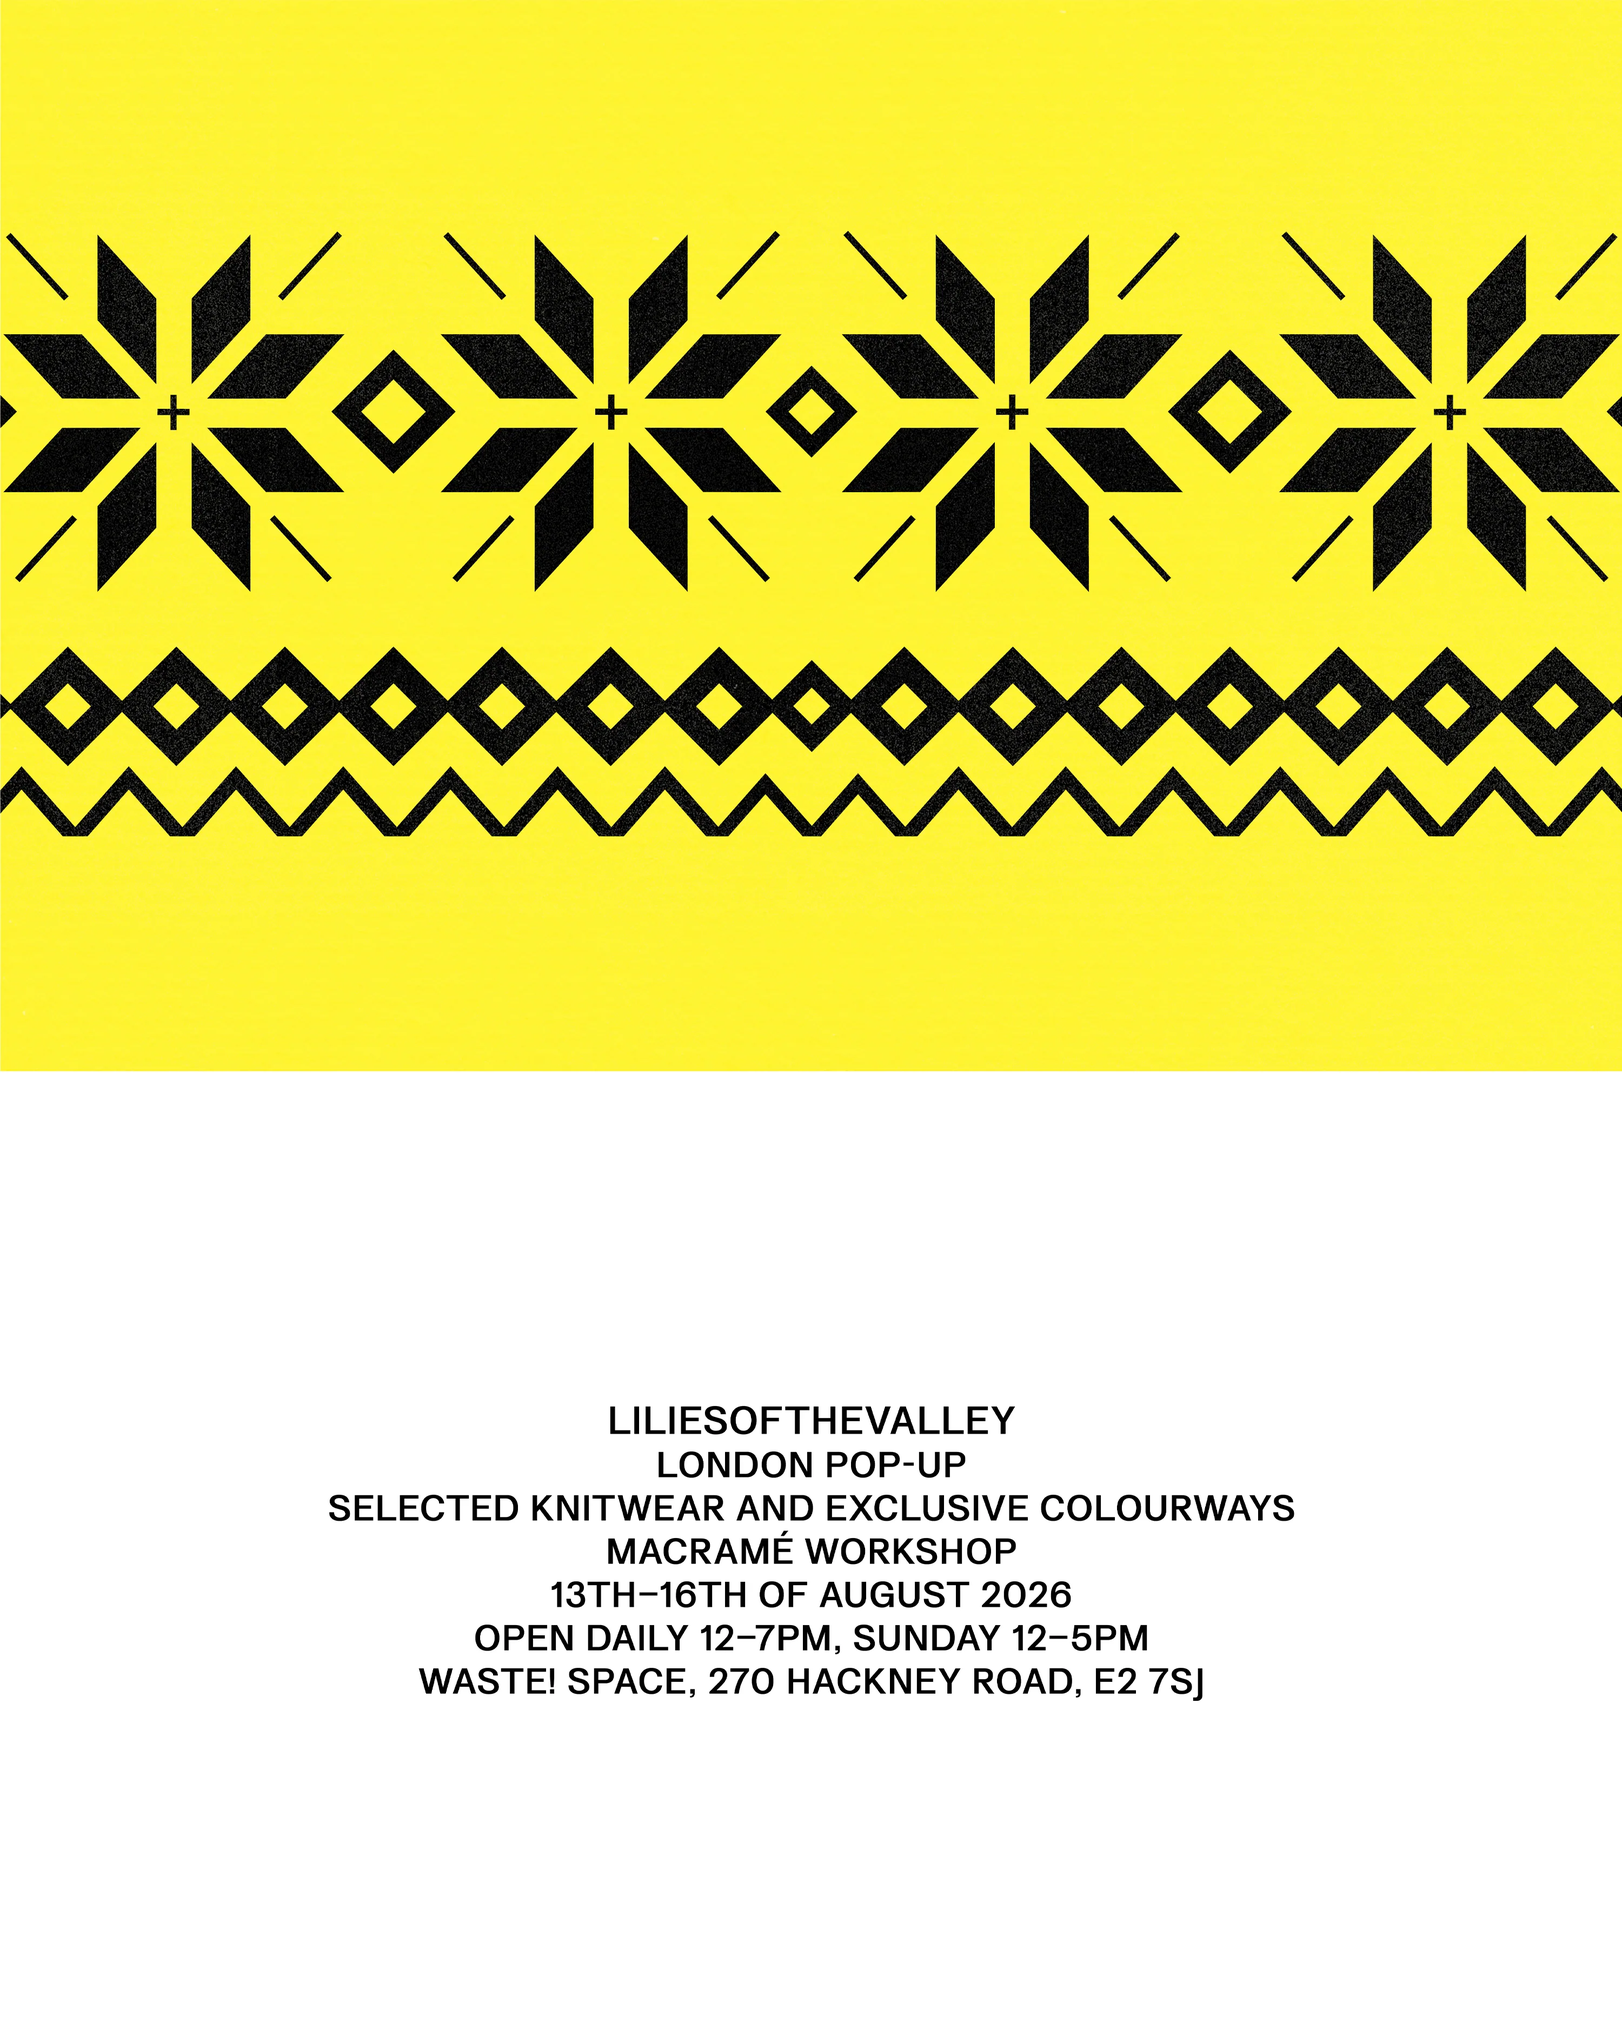
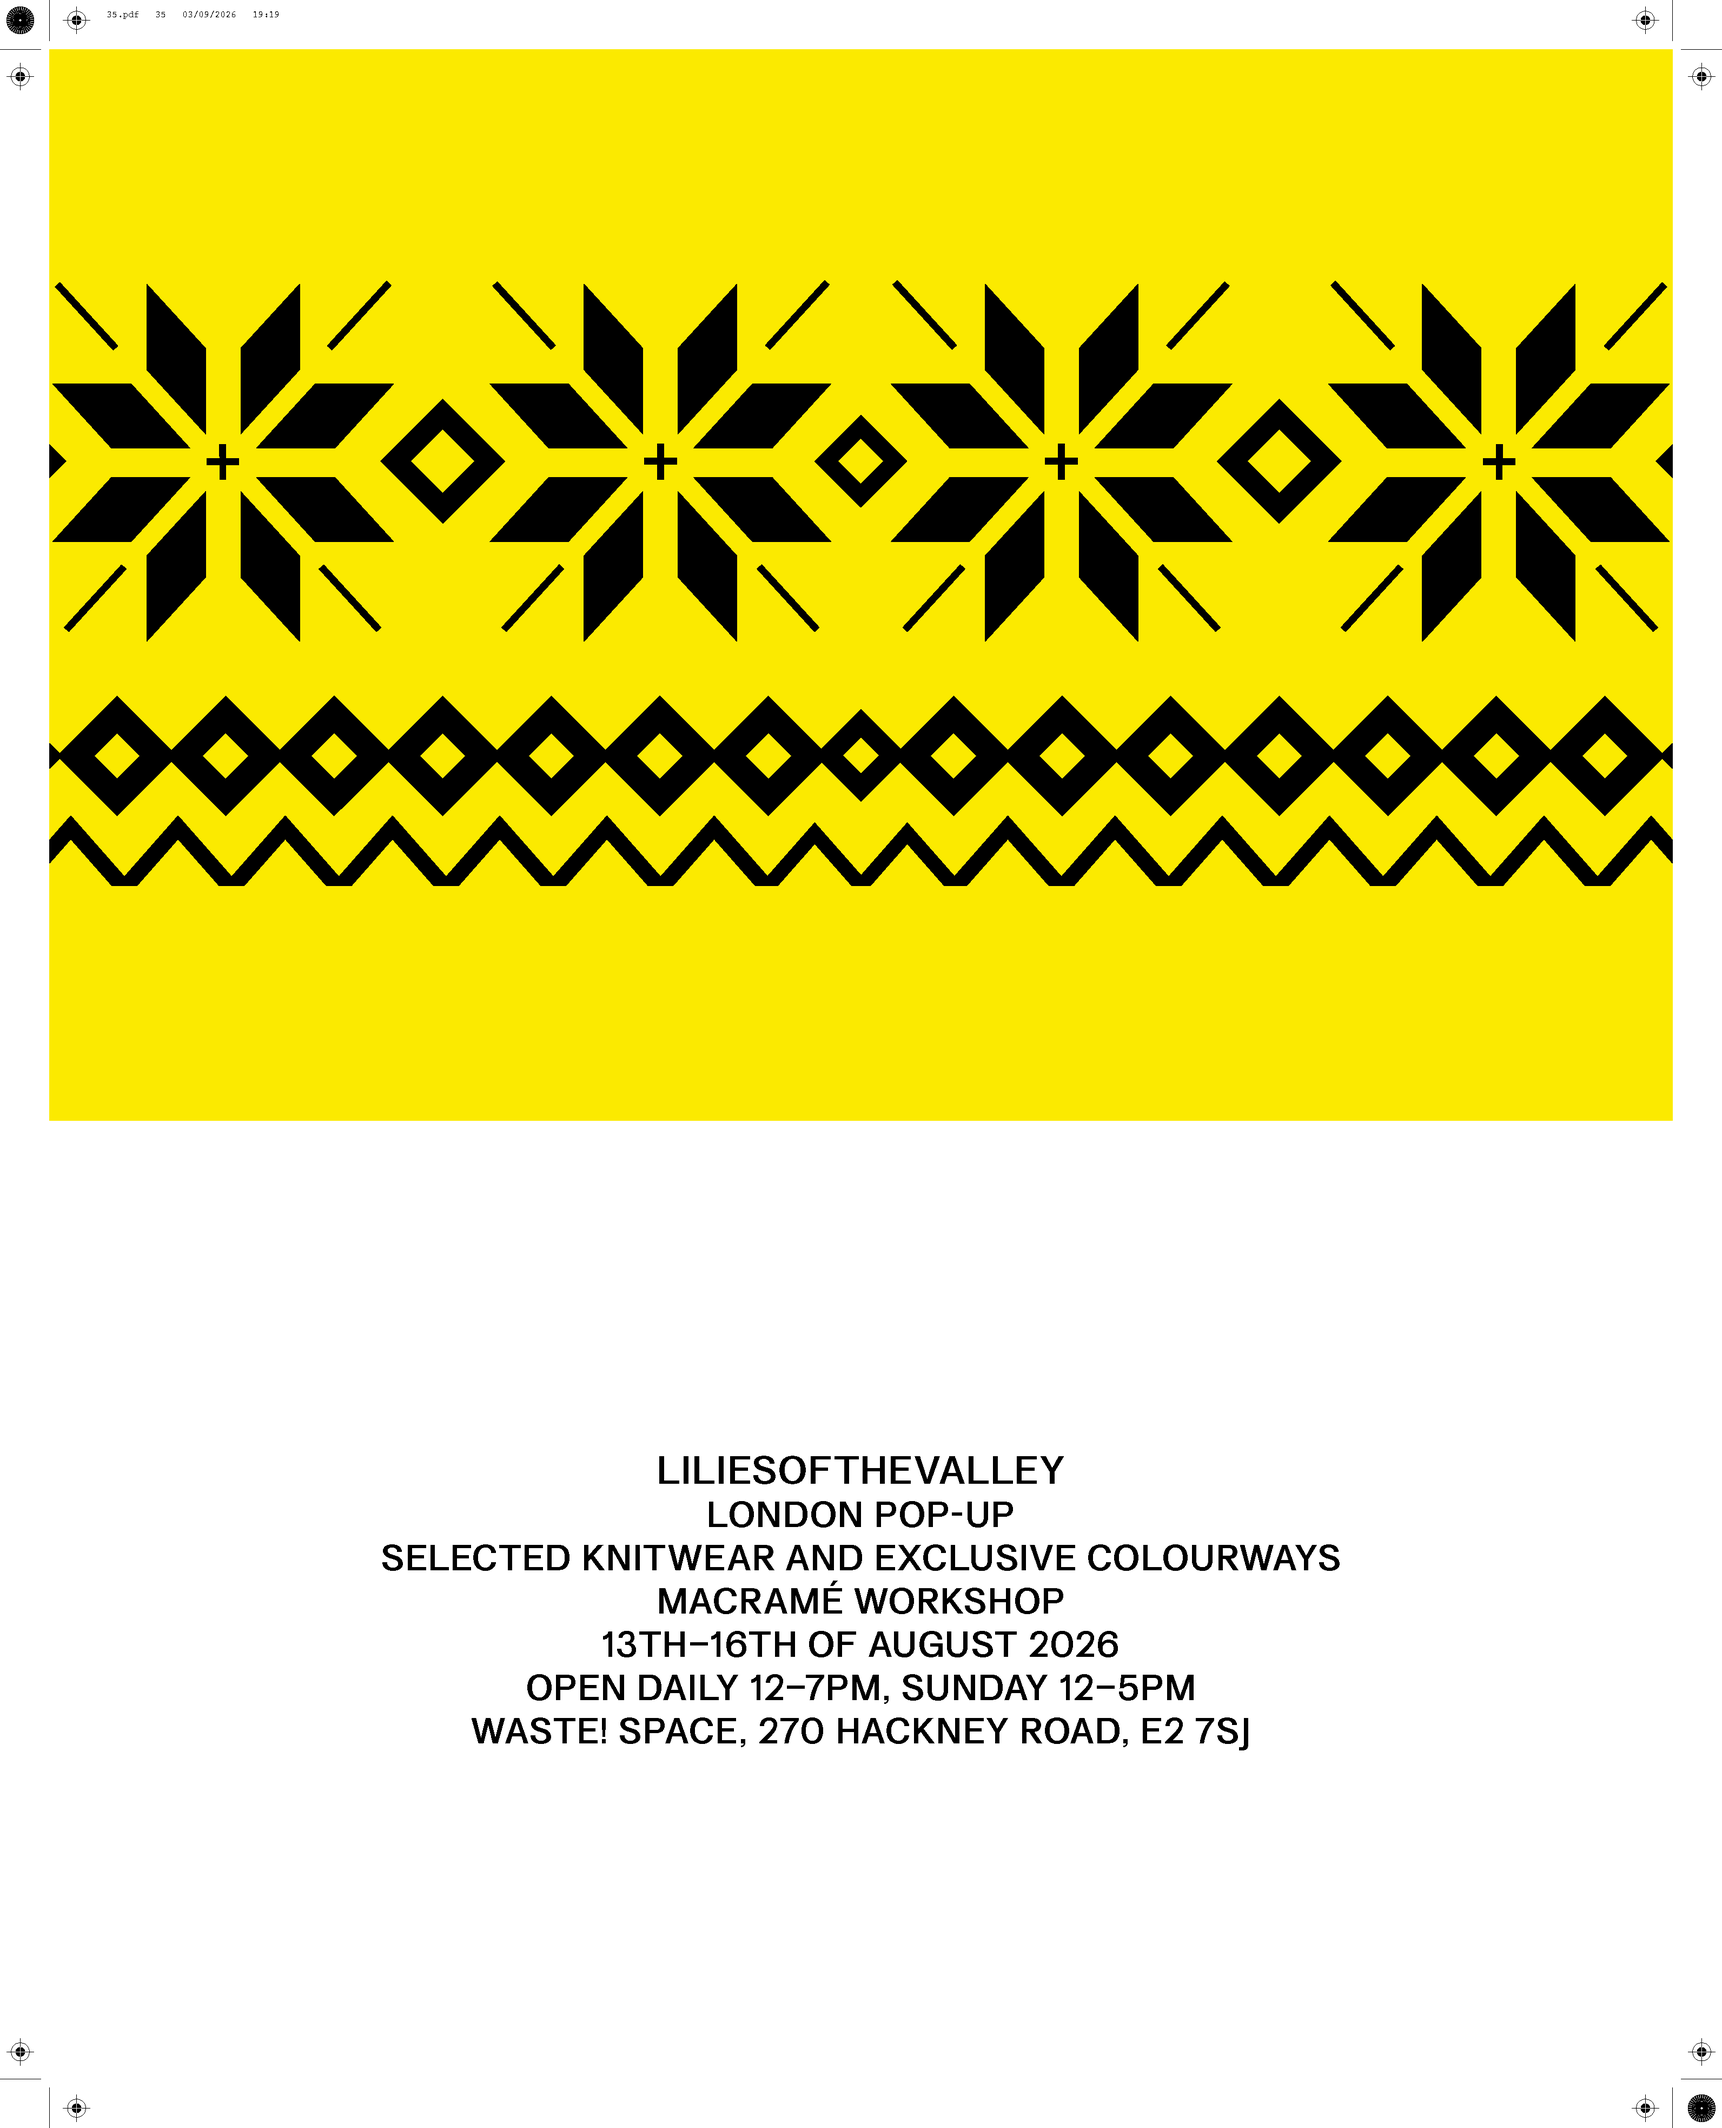
WASTE opens on the print poster; the thesis is Script Parity as Design Hypothesis
WASTE: three plates — the poster as its print sheet, trim marks kept, the
Macramé Workshop lettering, the full shopfront. New master built lossless
at 40 KB; the invitation and the two window details leave the repo.

Thesis: renamed Script Parity as Design Hypothesis in the caption and the
works list (Zerko Grotesk is the typeface entry only). Opens on the
Cyrillic in the Contemporary spread, then the cover, then page order; the
landing key visual is that spread. Catalogue in Notion updated to match.

diff --git a/index.html b/index.html
@@ -40,8 +40,8 @@
 
   <!-- The key visual takes the first fetch; the first index plate used to. -->
   <figure class="landing-key">
-    <img src="export/zerko-thesis-mu-cover.webp" width="2400" height="1600"
-         alt="The thesis cover: black uncoated stock, the title set small in white."
+    <img src="export/zerko-thesis-mu-03.webp" width="2400" height="1600"
+         alt="Chapter 2 spread of the thesis: a page of text on Cyrillic in the contemporary, facing a full character set of a Soviet-era face printed small in rows."
          fetchpriority="high" decoding="async">
   </figure>
 
@@ -54,7 +54,7 @@
     <h2>Selected Works</h2>
     <ol>
       <li><a href="#lotv-waste">LILIESOFTHEVALLEY WASTE! SPACE Pop-Up</a></li>
-      <li><a href="#zerko-thesis">Zerko Grotesk: Script Parity as a Design Condition</a></li>
+      <li><a href="#zerko-thesis">Script Parity as Design Hypothesis</a></li>
       <li><a href="#zerko-grotesk">Zerko Grotesk</a></li>
       <li><a href="#as-seen-in">As Seen In</a></li>
       <li><a href="#around-a-memory">Around A Memory</a></li>
@@ -147,29 +147,16 @@
   <article class="entry" id="lotv-waste" style="--w:58%; --plate-ar:0.7071">
     <div class="carousel" data-carousel>
       <div class="track" tabindex="0" aria-label="Plates">
+        <!-- Three plates, 9 Sep: the poster, the workshop lettering, the shopfront.
+             The invitation card and the two window details are still in export/
+             and in the Catalogue's pool. -->
         <figure class="slide">
-          <img src="export/lotv-waste-02.webp" width="3721" height="5262"
-               alt="Macramé workshop invitation for the Lilies of the Valley pop-up at WASTE." decoding="async">
+          <img src="export/lotv-waste-01.webp" width="3184" height="3934"
+               alt="Pop-up poster for the Lilies of the Valley residency at WASTE, knit pattern in black on yellow, shown as the print sheet with its trim marks." decoding="async">
         </figure>
         <figure class="slide">
           <img src="export/lotv-waste-cover.svg" width="929" height="304"
-               alt="MACRAMÉ WORKSHOP set in striped display lettering." decoding="async">
-        </figure>
-        <figure class="slide">
-          <img src="export/lotv-waste-01.webp" width="3000" height="3750"
-               alt="Pop-up poster for the Lilies of the Valley residency at WASTE, knit pattern in black on yellow." loading="lazy" decoding="async">
-        </figure>
-        <figure class="slide">
-          <img src="export/lotv-waste-03.webp" width="3900" height="2925"
-               alt="The shopfront at WASTE! SPACE: LILIESOFTHEVALLEY in white vinyl across
-                    the glass, two mannequins behind it, a London bus reflected in the pane."
-               loading="lazy" decoding="async">
-        </figure>
-        <figure class="slide">
-          <img src="export/lotv-waste-04.webp" width="3900" height="2925"
-               alt="Detail of the window vinyl: London pop-up, selected knitwear, exclusive
-                    colours, and the free macramé workshop RSVP."
-               loading="lazy" decoding="async">
+               alt="MACRAMÉ WORKSHOP set in striped display lettering." loading="lazy" decoding="async">
         </figure>
         <figure class="slide">
           <img src="export/lotv-waste-05.webp" width="3900" height="2925"
@@ -194,54 +181,46 @@
     <div class="carousel" data-carousel>
       <div class="track" tabindex="0" aria-label="Plates">
         <figure class="slide">
+          <img src="export/zerko-thesis-mu-03.webp" width="2400" height="1600"
+               alt="Chapter 2 spread: a page of text on Cyrillic in the contemporary, facing a full character set of a Soviet-era face printed small in rows." decoding="async">
+        </figure>
+        <figure class="slide">
           <img src="export/zerko-thesis-mu-cover.webp" width="2400" height="1600"
                alt="The thesis cover: black uncoated stock, the title set small in white across the
                     top, Royal College of Art along the bottom, and a small hand-drawn figure with
-                    its arms out alone in the middle of the field."
-               fetchpriority="high" decoding="async">
+                    its arms out alone in the middle of the field." loading="lazy" decoding="async">
         </figure>
         <figure class="slide">
           <img src="export/zerko-thesis-mu-01.webp" width="2400" height="1600"
                alt="The introduction spread: justified text in the left column, and the research
                     question set enormous and rotated up the right-hand page — how can the making
                     of a Latin–Cyrillic rationalist grotesk family test script parity as a design
-                    condition?"
-               loading="lazy" decoding="async">
+                    condition?" loading="lazy" decoding="async">
         </figure>
         <figure class="slide">
           <img src="export/zerko-thesis-mu-02.webp" width="2400" height="1600"
-               alt="Plates of Cyrillic drawings: script exercises in pink and green on the left page, the same forms flooded in yellow on the right."
-               loading="lazy" decoding="async">
-        </figure>
-        <figure class="slide">
-          <img src="export/zerko-thesis-mu-03.webp" width="2400" height="1600"
-               alt="Chapter 2 spread: a page of text on Cyrillic in the contemporary, facing a full character set of a Soviet-era face printed small in rows."
-               loading="lazy" decoding="async">
+               alt="Plates of Cyrillic drawings: script exercises in pink and green on the left page, the same forms flooded in yellow on the right." loading="lazy" decoding="async">
         </figure>
         <figure class="slide">
           <img src="export/zerko-thesis-mu-04.webp" width="2400" height="1600"
-               alt="Coverage spread: one paragraph on the Soviet precedent for coverage at scale, set three times in English, Russian and German, all in bold caps."
-               loading="lazy" decoding="async">
+               alt="Coverage spread: one paragraph on the Soviet precedent for coverage at scale, set three times in English, Russian and German, all in bold caps." loading="lazy" decoding="async">
         </figure>
         <figure class="slide">
           <img src="export/zerko-thesis-mu-05.webp" width="2400" height="1600"
-               alt="Reading the page: two dense text pages, the Latin on the left and the same passage in Cyrillic on the right, with the footnotes and running heads aligned."
-               loading="lazy" decoding="async">
+               alt="Reading the page: two dense text pages, the Latin on the left and the same passage in Cyrillic on the right, with the footnotes and running heads aligned." loading="lazy" decoding="async">
         </figure>
         <figure class="slide">
           <img src="export/zerko-thesis-mu-06.webp" width="2400" height="1600"
-               alt="Word list: Arête, Хребет, Hřeben, Höhenzug, Ґрунт set large down the left page, and the two-script spacing string nodosonndoso facing it."
-               loading="lazy" decoding="async">
+               alt="Word list: Arête, Хребет, Hřeben, Höhenzug, Ґрунт set large down the left page, and the two-script spacing string nodosonndoso facing it." loading="lazy" decoding="async">
         </figure>
         <figure class="slide">
           <img src="export/zerko-thesis-mu-07.webp" width="2400" height="1600"
-               alt="Section 2.3, Sameness and Harmonisation: text on the left, and on the right a run of Д and the ИНПЦ module in Bold with pencil notes around them."
-               loading="lazy" decoding="async">
+               alt="Section 2.3, Sameness and Harmonisation: text on the left, and on the right a run of Д and the ИНПЦ module in Bold with pencil notes around them." loading="lazy" decoding="async">
         </figure>
       </div>
       <span class="count" data-count>01/08</span>
     </div>
-    <p class="cap"><button type="button" class="cap-toggle" aria-expanded="false" aria-controls="more-zerko-thesis"><b>Zerko Grotesk: Script Parity as a Design Condition</b></button>, Publication, 2026</p>
+    <p class="cap"><button type="button" class="cap-toggle" aria-expanded="false" aria-controls="more-zerko-thesis"><b>Script Parity as Design Hypothesis</b></button>, Publication, 2026</p>
     <div class="more" id="more-zerko-thesis"><div class="more-inner"><p>A practice-led thesis investigating Latin–Cyrillic script parity as a design condition through typographic making. Framed by Latinisation, the tendency for non-Latin scripts to inherit Latin structural logic, it asks what parity between the scripts looks like and where it can be pursued without reducing one script to the logic of the other.</p></div></div>
   </article>
 
